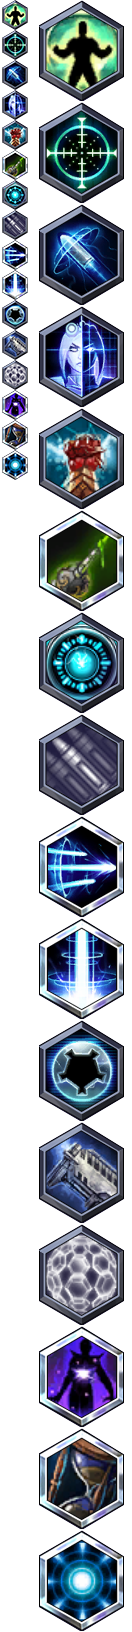
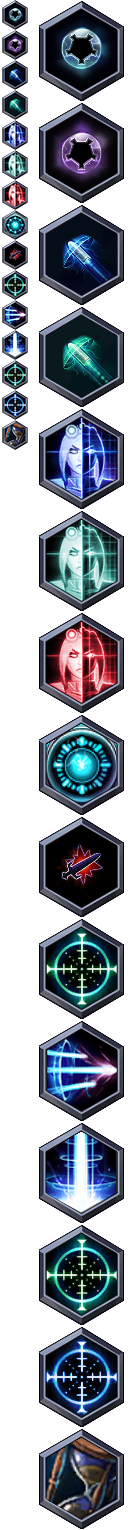
nova changes

diff --git a/client/css/sass/hots-heroes.scss b/client/css/sass/hots-heroes.scss
@@ -999,24 +999,48 @@ This is the template for hots-hero-talents.
 
 //talents: nova
 
-@include hots-hero-talents ( nova, (
-    ( class: (conjurers-pursuit), pos: 0 ), // 0
-    ( class: (psi-op-rangefinder, ambush-snipe, perfect-shot, explosive-round, railgun), pos: 1 ), // -30
-    ( class: (tazer-rounds, covert-ops, crippling-shot), pos: 2 ), // -60
-    ( class: (remote-delivery, lethal-decoy, double-fake), pos: 3 ), // -90
-    ( class: (gathering-power ), pos: 4 ), // -120
-    ( class: (envenom), pos: 5 ), // -150
-    ( class: (one-in-the-chamber), pos: 6 ), // -180
-    ( class: (anti-armor-shells), pos: 7 ), // -210
-    ( class: (triple-tap, fast-reload), pos: 8 ), // -240
-    ( class: (precision-strike, precision-barrage), pos: 9 ), // -270
-    ( class: (advanced-cloaking), pos: 10 ), // -300
-    ( class: (headshot), pos: 11 ), // -330
-    ( class: (spell-shield), pos: 12 ), // -360
-    ( class: (overdrive), pos: 13 ), // -390
+//@include hots-hero-talents ( nova, (
+//    ( class: (conjurers-pursuit), pos: 0 ), // 0
+//    ( class: (psi-op-rangefinder, ambush-snipe, perfect-shot, explosive-round, railgun), pos: 1 ), // -30
+//    ( class: (tazer-rounds, covert-ops, crippling-shot), pos: 2 ), // -60
+//    ( class: (remote-delivery, lethal-decoy, double-fake), pos: 3 ), // -90
+//    ( class: (gathering-power ), pos: 4 ), // -120
+//    ( class: (envenom), pos: 5 ), // -150
+//    ( class: (one-in-the-chamber), pos: 6 ), // -180
+//    ( class: (anti-armor-shells), pos: 7 ), // -210
+//    ( class: (triple-tap, fast-reload), pos: 8 ), // -240
+//    ( class: (precision-strike, precision-barrage), pos: 9 ), // -270
+//    ( class: (advanced-cloaking), pos: 10 ), // -300
+//    ( class: (headshot), pos: 11 ), // -330
+//    ( class: (spell-shield), pos: 12 ), // -360
+//    ( class: (overdrive), pos: 13 ), // -390
+//    ( class: (rewind), pos: 14 ), // -420
+//    ( class: (bolt-of-the-storm), pos: 15 ) // -450
+//) );
+
+@include hots-hero-talents ( heroName, (
+    ( class: (tactical-espionage, ghost-protocol), pos: 0 ), // 0
+    ( class: (advanced-cloaking), pos: 1 ), // -30
+    ( class: (longshot, double-tap, crippling-shot), pos: 2 ), // -60
+    ( class: (covert-ops), pos: 3 ), // -90
+    ( class: (remote-delivery, lethal-decoy), pos: 4 ), // -120
+    ( class: (rapid-projection), pos: 5 ), // -150
+    ( class: (holo-stability), pos: 6 ), // -180
+    ( class: (one-in-the-chamber), pos: 7 ), // -210
+    ( class: (anti-armor-shells), pos: 8 ), // -240
+    ( class: (snipe-master), pos: 9 ), // -270
+    ( class: (triple-tap, fast-reload), pos: 10 ), // -300
+    ( class: (precision-strike, precision-barrage), pos: 11 ), // -330
+    ( class: (psionic-efficiency, perfect-shot), pos: 12 ), // -360
+    ( class: (explosive-round), pos: 13 ), // -390
     ( class: (rewind), pos: 14 ), // -420
-    ( class: (bolt-of-the-storm), pos: 15 ) // -450
+    ( class: (), pos: 15 ), // -450
+    ( class: (), pos: 16 ), // -480
+    ( class: (), pos: 17 ), // -510
+    ( class: (), pos: 18 ) // -540
 ) );
+
+
 
 //talents: raynor
 
